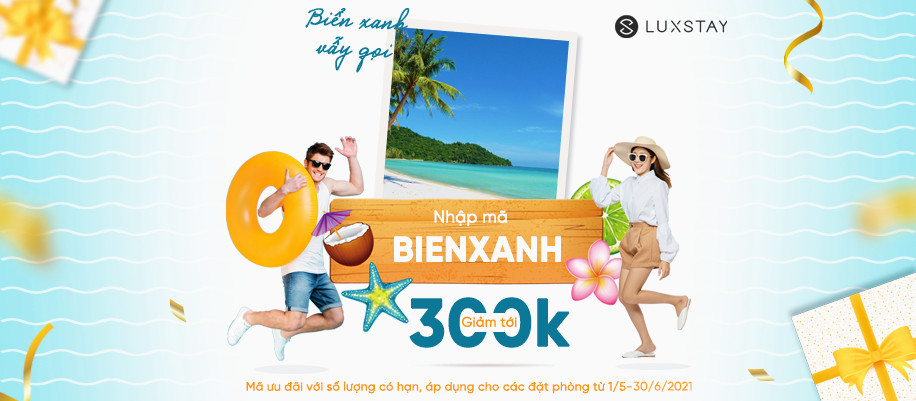
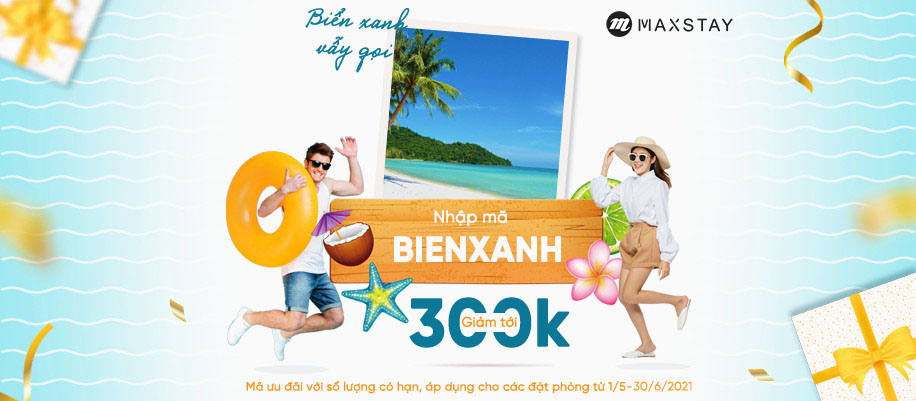
creat language option and code js for search-client extend

diff --git a/index.html b/index.html
@@ -23,9 +23,7 @@
                     <div class="header-wrap">
                         <div class="header__logo">
                             <a href="#" class="header__logo-link">
-                                <svg version="1.1" viewBox="0 0 50 50" class="svg-icon svg-fill" style="width: 50px; height: 50px;">
-                                    <path pid="0" d="M25.093 0c13.781.06 24.94 11.317 24.882 25.106C49.917 38.894 38.663 50.058 24.88 50 11.1 49.942-.059 38.683.001 24.894.057 11.106 11.31-.058 25.092 0zm11.801 31.9L14.398 16.053c.241-.26.48-.518.74-.777 2.7-2.687 5.971-4.031 9.775-4.015 3.804.015 7.064 1.388 9.741 4.098.238.241.476.482.694.743l-5.951 4.133 2.381 1.688 5.153-3.576v.02L39.33 16.7c-.692-1.203-1.584-2.325-2.616-3.39-3.231-3.292-7.167-4.947-11.788-4.967-4.6-.019-8.53 1.603-11.809 4.867a17.806 17.806 0 00-2.682 3.408l1.429 1.004 23.429 16.51c-.24.26-.48.518-.74.777-2.7 2.687-5.971 4.011-9.775 3.996-3.803-.016-7.063-1.37-9.74-4.08-.258-.26-.496-.521-.734-.782l6.111-4.251-.139-.181-2.183-1.528-5.373 3.735v-.021l-2.377 1.65a17.824 17.824 0 002.654 3.43c3.253 3.291 7.169 4.946 11.769 4.965 4.62.021 8.549-1.602 11.83-4.866 1.06-1.075 1.96-2.21 2.682-3.406l-2.383-1.67z"></path>
-                                </svg>
+                                <svg xmlns="http://www.w3.org/2000/svg" width="50px" height="50px" id="Layer_1" data-name="Layer 1" viewBox="0 0 57 57"><defs><style>.cls-1{fill:#222;}.cls-2{fill:#fff;}</style></defs><title>maxstay</title><circle class="cls-1" cx="28.94" cy="28.51" r="26.47"/><path class="cls-2" d="M48.82,37.57a14.78,14.78,0,0,1-3.22,2.8,17.41,17.41,0,0,1-10,2.73,5.72,5.72,0,0,1-2-.39,3.68,3.68,0,0,1-1.4-1,2.59,2.59,0,0,1-.6-1.43A3.11,3.11,0,0,1,32,38.54l8.18-15.79c.2-.41.2-.68,0-.83a1.1,1.1,0,0,0-.81-.19,2.88,2.88,0,0,0-1.09.35,1.67,1.67,0,0,0-.79.76l-8.18,15.7h-9L28.47,22.9c.26-.51.29-.84.1-1a1,1,0,0,0-.8-.18,3,3,0,0,0-1.06.36,1.44,1.44,0,0,0-.69.67L17.69,38.54H8.38l8.28-15.85a2.39,2.39,0,0,0,.39-1.26A.47.47,0,0,0,16.6,21a2.34,2.34,0,0,0-1,.28,7.51,7.51,0,0,0-1.36.86,12.22,12.22,0,0,0-1.43,1.31,10.37,10.37,0,0,0-1.25,1.63l-.73-.78a18.69,18.69,0,0,1,2.37-3.08,15.75,15.75,0,0,1,2.93-2.45,14,14,0,0,1,3.43-1.6,13,13,0,0,1,3.89-.57,4.31,4.31,0,0,1,3,.87,2.66,2.66,0,0,1,.67,2.6,11.46,11.46,0,0,1,2.05-1.6,13.77,13.77,0,0,1,2.17-1.09,12.27,12.27,0,0,1,2.12-.62,10,10,0,0,1,1.87-.19,5.5,5.5,0,0,1,1.68.24,3.34,3.34,0,0,1,1.23.69,2.46,2.46,0,0,1,.71,1.09A2.9,2.9,0,0,1,38.94,20a9.72,9.72,0,0,1,3.52-2.67,9.46,9.46,0,0,1,3.76-.8,3.33,3.33,0,0,1,2.11.63,3.22,3.22,0,0,1,1.14,1.65,5.33,5.33,0,0,1,.13,2.32,8.34,8.34,0,0,1-.87,2.67L41.63,37.3a1.29,1.29,0,0,0-.12,1.24,1.31,1.31,0,0,0,1.37.62,6,6,0,0,0,2.3-.64,10.24,10.24,0,0,0,2.41-1.61,7,7,0,0,0,1.77-2.33h1.39A12.35,12.35,0,0,1,48.82,37.57Z"/></svg>
                             </a>
                         </div>
                         <div class="header__search shadow">
@@ -39,7 +37,7 @@
                                     <span>Ngày</span>
                                 </a>
                             </div>
-                            <div class="header__search-client">
+                            <div class="header__search-client" id="header__hasextend">
                                 <a href="#" class="header__search-client-link">
                                     <i class="fas fa-user"></i>
                                     <span>Số khách</span>
@@ -51,9 +49,9 @@
                                         <div>Người lớn</div>
                                     </div>
                                     <div class="client-extend__updown">
-                                        <button class="client-extend__down">-</button>
-                                        <input type="text" placeholder="0">
-                                        <button class="client-extend__up">+</button>
+                                        <button class="client-extend__down" id="minusAdult">-</button>
+                                        <input type="text" id="inputAdult" value="0" min="0">
+                                        <button class="client-extend__up" id="plusAdult">+</button>
                                     </div>
                                 </div>
                                 <div class="client-extend__row">
@@ -62,9 +60,9 @@
                                         <div class="client-extend__content-note">Từ 2 đến 12</div>
                                     </div>
                                     <div class="client-extend__updown">
-                                        <button class="client-extend__down">-</button>
-                                        <input type="text" placeholder="0">
-                                        <button class="client-extend__up">+</button>
+                                        <button class="client-extend__down" id="minusChild">-</button>
+                                        <input type="text" id="inputChild" value="0" min="0">
+                                        <button class="client-extend__up" id="plusChild">+</button>
                                     </div>
                                 </div>
                                 <div class="client-extend__row">
@@ -73,9 +71,9 @@
                                         <div class="client-extend__content-note">Từ 2 đến 12</div>
                                     </div>
                                     <div class="client-extend__updown">
-                                        <button class="client-extend__down">-</button>
-                                        <input type="text" placeholder="0">
-                                        <button class="client-extend__up">+</button>
+                                        <button class="client-extend__down" id="minusInfant">-</button>
+                                        <input type="text" id="inputInfant" value="0" min="0">
+                                        <button class="client-extend__up" id="plusInfant">+</button>
                                     </div>
                                 </div>
                                 <div class="client-extend__option">
@@ -101,13 +99,42 @@
                             <li class="header__navbar-item">
                                 <a href="#" class="header__navbar-link">Đăng nhập</a>
                             </li>
-                            <li class="header__navbar-item">
+                            <li class="header__navbar-item" style="position: relative" id="language">
                                 <a href="#" class="header__navbar-link is-language">
                                     <img class="header__navbar-link-img" src="https://www.luxstay.com/icons/vi.svg" alt="hình ảnh">
                                     <span>VNĐ</span>
                                 </a>
                             </li>
+                            <div class="header__navbar-language shadow">
+                                <div class="language">
+                                    <div class="vietnamese">
+                                        <img src="https://www.luxstay.com/icons/vi.svg" alt="hỉnh ảnh">
+                                        <span>Việt Nam</span>
+                                        <i class="fas fa-check"></i>
+                                    </div>
+                                    <div class="english">
+                                        <img src="https://www.luxstay.com/icons/en.svg" alt="hỉnh ảnh">
+                                        <span>English</span>
+                                    </div>
+                                    <div class="korean">
+                                        <img src="https://www.luxstay.com/icons/ko.svg" alt="hỉnh ảnh">
+                                        <span>Korean</span>
+                                    </div>
+                                </div>
+                                <div class="currency">
+                                    <div class="vnd">
+                                        <span class="vnd-currency">VNĐ</span>
+                                        <span>Việt Nam Đồng</span>
+                                        <i class="fas fa-check"></i>
+                                    </div>
+                                    <div class="usd">
+                                        <span class="usd-currency">USD</span>
+                                        <span>United States Dollar</span>
+                                    </div>
+                                </div>
+                            </div>
                         </ul>
+                        
                     </div>
                 </div>
             </div>
@@ -117,13 +144,13 @@
             <div class="grid">
                 <div class="slider__container">
                     <a href="#" class="slide__img">
-                        <img src="./access/img/sale.png" alt="hình ảnh">
+                        <img src="./access/img/sale.jpg" alt="hình ảnh">
                     </a>
                     <a href="#" class="slide__img">
-                        <img src="./access/img/8.3.png" alt="hình ảnh">
+                        <img src="./access/img/8.3.jpg" alt="hình ảnh">
                     </a>
                     <a href="#" class="slide__img">
-                        <img src="./access/img/book-easy.png" alt="hình ảnh">
+                        <img src="./access/img/book-easy.jpg" alt="hình ảnh">
                     </a>
                     <div class="slide__sticky">
                         <div class="slide__sticky-dot" onclick = "currentSlide(0)"></div>
@@ -285,14 +312,7 @@
                         <div>
                             <a href="#" class="discount__item">
                                 <div class="discount__item-img">
-                                    <img src="./access/img/discount-1.jpg" alt="hình ảnh">
-                                </div>
-                            </a>
-                        </div>
-                        <div>
-                            <a href="#" class="discount__item">
-                                <div class="discount__item-img">
-                                    <img src="./access/img/discount.jpg" alt="hình ảnh">
+                                    <img src="./access/img/discoun1t.jpg" alt="hình ảnh">
                                 </div>
                             </a>
                         </div>
@@ -300,6 +320,13 @@
                             <a href="#" class="discount__item">
                                 <div class="discount__item-img">
                                     <img src="./access/img/discount-2.jpg" alt="hình ảnh">
+                                </div>
+                            </a>
+                        </div>
+                        <div>
+                            <a href="#" class="discount__item">
+                                <div class="discount__item-img">
+                                    <img src="./access/img/discount-3.jpg" alt="hình ảnh">
                                 </div>
                             </a>
                         </div>
@@ -559,10 +586,7 @@
                 <div class="intro">
                     <div class="grid__row mt-56">
                         <div class="grid__column-haft">
-                            <svg version="1.1" viewBox="0 0 244 50" class="intro__svg">
-                                <path pid="0" d="M25.093 0c13.781.06 24.94 11.317 24.882 25.106C49.917 38.894 38.663 50.058 24.88 50 11.1 49.942-.059 38.683.001 24.894.057 11.106 11.31-.058 25.092 0zm11.801 31.9L14.398 16.053c.241-.26.48-.518.74-.777 2.7-2.687 5.971-4.031 9.775-4.015 3.804.015 7.064 1.388 9.741 4.098.238.241.476.482.694.743l-5.951 4.133 2.381 1.688 5.153-3.576v.02L39.33 16.7c-.692-1.203-1.584-2.325-2.616-3.39-3.231-3.292-7.167-4.947-11.788-4.967-4.6-.019-8.53 1.603-11.809 4.867a17.806 17.806 0 00-2.682 3.408l1.429 1.004 23.429 16.51c-.24.26-.48.518-.74.777-2.7 2.687-5.971 4.011-9.775 3.996-3.803-.016-7.063-1.37-9.74-4.08-.258-.26-.496-.521-.734-.782l6.111-4.251-.139-.181-2.183-1.528-5.373 3.735v-.021l-2.377 1.65a17.824 17.824 0 002.654 3.43c3.253 3.291 7.169 4.946 11.769 4.965 4.62.021 8.549-1.602 11.83-4.866 1.06-1.075 1.96-2.21 2.682-3.406l-2.383-1.67zm45.839 2.652l-12.45-.05.096-21.789a.957.957 0 00-.965-.945l-.678-.003a.96.96 0 00-.974.939v.047c-.048.095-.05.236-.05.33l-.098 22.636a1.337 1.337 0 001.351 1.326l13.805.056a.958.958 0 00.973-.938l.003-.662a1.037 1.037 0 00-1.013-.946v-.001zm27.64-22.67l-.871-.003c-.563-.003-1.027.42-1.027.937l-.075 15.878c-.014 3.157-3.252 5.735-7.197 5.72-3.943-.014-7.158-2.618-7.144-5.775l.123-15.5.052-.282a.957.957 0 00-.201-.756 1.128 1.128 0 00-.767-.332l-.87-.004c-.513-.002-.924.326-1.028.75a.857.857 0 00-.156.47l-.073 15.69c-.02 4.616 4.47 8.402 9.95 8.424 5.48.022 10.004-3.73 10.025-8.3l.122-15.5.054-.282a.952.952 0 00-.203-.755c-.152-.189-.458-.379-.714-.38zm48.638 11.226c-3.275-1.249-6.696-2.496-6.688-4.393.01-2.42 2.721-4.401 6.05-4.387 3.331.014 6.025 2.017 6.014 4.436l-.002.38a.96.96 0 00.961.953l.675.003a.96.96 0 00.971-.945v-.38c.009-1.66-.709-3.276-2.006-4.515-1.635-1.618-4.092-2.532-6.65-2.494-4.873-.02-8.698 3.047-8.715 6.938.03 3.748 4.416 5.38 8.656 6.962 3.324 1.247 6.795 2.495 6.785 4.487-.01 2.372-3.155 4.399-6.775 4.385-3.668-.016-6.747-2.07-6.737-4.44l.001-.38a.961.961 0 00-.96-.954l-.676-.002a.96.96 0 00-.97.945v.38c-.018 3.843 4.215 6.991 9.38 7.012 5.163.022 9.423-3.092 9.44-6.934-.033-3.796-4.464-5.427-8.754-7.057zM193.66 11.84l-18.844-.076c-.547-.003-.996.42-.999.94l-.002.66c-.002.52.443.946.99.949l8.103.032-.095 21.802c-.003.52.443.947.99.949l.696.002c.546.003.996-.42 1-.94l.095-21.802 8.055.031c.547.003.996-.42.999-.94l.003-.66c.003-.52-.443-.946-.99-.947zm49.264.515c-.144-.33-.481-.52-.867-.52l-.87-.005a.963.963 0 00-.677.28l-.145.14-.147.142-6.609 9.677-6.72-9.734c-.048-.046-.096-.094-.096-.14l-.143-.143a.97.97 0 00-.675-.285l-.774-.003a1.021 1.021 0 00-.872.515 1.03 1.03 0 00.045.988l7.966 11.576-.049 11.307c.006.527.437.95.964.946l.675.002a.957.957 0 00.97-.937l.049-11.308 7.923-11.509c.194-.329.243-.705.052-.989zm-37.898 12.047l3.75-7.994 3.728 8.023-7.478-.03zm15.615 10.954v-.047l-10.5-22.733c-.15-.425-.549-.71-1.102-.807-.603-.049-1.156.231-1.41.703v.046l-10.705 22.697v.047l-.204.471c-.095.283-.06.595.097.849.188.258.483.416.802.428l.854.004c.453.001.806-.282.958-.657l.05-.141 4.314-9.277 9.95.04 4.28 9.31.049.14c.15.38.5.664.952.667l.854.002c.352.002.654-.139.806-.422.152-.281.254-.563.104-.847l-.149-.473zm-86.008-15.15l.817.003a.963.963 0 00.729-.347l4.755-6.218.412-.478a.763.763 0 00.095-.915c-.135-.306-.453-.482-.816-.483l-.863-.004a.929.929 0 00-.868.608l-4.983 6.522a.94.94 0 00-.096.915c.135.22.453.394.816.397h.002zm-6.998 8.45l-.819-.002a.96.96 0 00-.728.347l-4.755 6.207-.413.48a.77.77 0 00-.094.92c.135.309.452.485.816.488l.864.002a.91.91 0 00.82-.478l5.03-6.601a.949.949 0 00.095-.92 1.027 1.027 0 00-.816-.443zm8.019-.453l.148.14 5.55 7.248c.248.284.246.662.095.99-.15.332-.5.519-.9.517l-.896-.004a1.013 1.013 0 01-.697-.286l-.149-.14c-.03-.002-.042-.02-.059-.044a.212.212 0 00-.04-.052l-5.501-7.151a1.005 1.005 0 01-.15-.237l-11.694-15.39-.446-.521c-.248-.285-.246-.662-.096-.993.15-.33.501-.518.9-.516l.897.004a.99.99 0 01.845.428l.15.19 11.992 15.721s.05.048.05.096z">
-                                </path>
-                            </svg>
+                            <svg xmlns="http://www.w3.org/2000/svg" style="transform: translateX(-10px)" width="414.8px" height="85px"  id="Layer_1" data-name="Layer 1" viewBox="0 0 280 60"><defs><style>.cls-1{fill:#222;}.cls-2{fill:#fff;}</style></defs><title>maxstay</title><circle class="cls-1" cx="28.94" cy="28.51" r="26.47"/><path class="cls-1" d="M103,41.16l8.43-21.95a2.58,2.58,0,0,1,2.4-1.65H114a2.64,2.64,0,0,1,2.44,1.64l9,21.93a1.59,1.59,0,0,1-1.48,2.2h-.4a1.58,1.58,0,0,1-1.49-1l-2.22-5.76a1.61,1.61,0,0,0-1.49-1h-8.56a1.6,1.6,0,0,0-1.5,1l-2.07,5.7a1.6,1.6,0,0,1-1.5,1h-.17A1.6,1.6,0,0,1,103,41.16Zm6.6-8.41h8.74l-2.69-7.14c-.7-1.85-1.25-3.43-1.64-4.72l-1.58,4.3Z"/><path class="cls-1" d="M164.33,34.91h.19a1.58,1.58,0,0,1,1.66,1.2A6.25,6.25,0,0,0,167,38a5.9,5.9,0,0,0,2.6,2,9.8,9.8,0,0,0,3.95.76,9.45,9.45,0,0,0,3.45-.58,4.68,4.68,0,0,0,2.22-1.59,3.66,3.66,0,0,0,.73-2.2,3.34,3.34,0,0,0-.7-2.12,5.29,5.29,0,0,0-2.32-1.52,45.14,45.14,0,0,0-4.59-1.26,22.86,22.86,0,0,1-5-1.61,6.91,6.91,0,0,1-2.76-2.4,5.88,5.88,0,0,1-.9-3.2,6.52,6.52,0,0,1,1.11-3.65A6.83,6.83,0,0,1,168,18a12.38,12.38,0,0,1,4.73-.88,12.82,12.82,0,0,1,5,.93,7.31,7.31,0,0,1,3.37,2.71,7.63,7.63,0,0,1,1,2.22,1.57,1.57,0,0,1-1.41,2h-.2a1.6,1.6,0,0,1-1.64-1.19,4.71,4.71,0,0,0-1.53-2.39,7,7,0,0,0-4.49-1.25,7.25,7.25,0,0,0-4.51,1.13A3.42,3.42,0,0,0,167,24a2.92,2.92,0,0,0,1,2.28c.65.6,2.37,1.21,5.14,1.84a34.2,34.2,0,0,1,5.7,1.64,7.87,7.87,0,0,1,3.33,2.63,6.44,6.44,0,0,1,1.07,3.67,7,7,0,0,1-1.18,3.87,7.77,7.77,0,0,1-3.38,2.83,11.71,11.71,0,0,1-5,1,14.8,14.8,0,0,1-5.86-1,8.23,8.23,0,0,1-3.71-3.06,8.36,8.36,0,0,1-1.19-2.82A1.59,1.59,0,0,1,164.33,34.91Z"/><path class="cls-1" d="M199.88,41.81V20.6h-7a1.52,1.52,0,0,1-1.52-1.52h0a1.52,1.52,0,0,1,1.52-1.52h17.38a1.52,1.52,0,0,1,1.52,1.52h0a1.52,1.52,0,0,1-1.52,1.52h-7V41.81a1.52,1.52,0,0,1-1.52,1.52h-.37A1.52,1.52,0,0,1,199.88,41.81Z"/><path class="cls-1" d="M216.08,41.16l8.67-22.57a1.6,1.6,0,0,1,1.49-1h1.5a1.6,1.6,0,0,1,1.48,1l9.24,22.57a1.59,1.59,0,0,1-1.48,2.2h-.4a1.6,1.6,0,0,1-1.5-1l-2.21-5.76a1.61,1.61,0,0,0-1.5-1h-8.55a1.61,1.61,0,0,0-1.51,1l-2.06,5.7a1.6,1.6,0,0,1-1.5,1h-.18A1.6,1.6,0,0,1,216.08,41.16Zm6.6-8.41h8.74l-2.69-7.14c-.82-2.16-1.43-3.95-1.83-5.34a32.89,32.89,0,0,1-1.39,4.92Z"/><path class="cls-1" d="M252.11,41.71v-8.8a1.59,1.59,0,0,0-.27-.9l-8-11.92a1.63,1.63,0,0,1,1.35-2.53h.23a1.62,1.62,0,0,1,1.36.74l4.6,7c.43.67.85,1.34,1.25,2a1.62,1.62,0,0,0,2.77,0q.65-1,1.41-2.22l4.51-6.85a1.64,1.64,0,0,1,1.36-.73h0A1.62,1.62,0,0,1,264,20.11L255.81,32a1.59,1.59,0,0,0-.29.92v8.79a1.61,1.61,0,0,1-1.62,1.62h-.16A1.62,1.62,0,0,1,252.11,41.71Z"/><path class="cls-1" d="M133.85,40.59a1.71,1.71,0,0,0,1.38,2.74h0a1.33,1.33,0,0,0,1.07-.54l5.93-8.41a.4.4,0,0,0-.33-.64h-2.77a.43.43,0,0,0-.33.17Z"/><path class="cls-1" d="M152.9,20a1.53,1.53,0,0,0-1.23-2.45h0a1.33,1.33,0,0,0-1,.53l-4.41,5.83a.58.58,0,0,0,.46.93h2.52a.2.2,0,0,0,.17-.09Z"/><path class="cls-1" d="M153.37,40.46l-4.8-6.72-2.89-4s-2.76-3.82-3.48-4.86l-.48-.68-4.28-6.05a1.33,1.33,0,0,0-1.08-.56h0A1.74,1.74,0,0,0,135,20.32l3.23,4.53,3.59,5S144,33,144.52,33.74c2,2.82,6.3,9,6.3,9a1.33,1.33,0,0,0,1.08.56h0A1.81,1.81,0,0,0,153.37,40.46Z"/><path class="cls-2" d="M48.82,37.57a14.78,14.78,0,0,1-3.22,2.8,17.41,17.41,0,0,1-10,2.73,5.72,5.72,0,0,1-2-.39,3.68,3.68,0,0,1-1.4-1,2.59,2.59,0,0,1-.6-1.43A3.11,3.11,0,0,1,32,38.54l8.18-15.79c.2-.41.2-.68,0-.83a1.1,1.1,0,0,0-.81-.19,2.88,2.88,0,0,0-1.09.35,1.67,1.67,0,0,0-.79.76l-8.18,15.7h-9L28.47,22.9c.26-.51.29-.84.1-1a1,1,0,0,0-.8-.18,3,3,0,0,0-1.06.36,1.44,1.44,0,0,0-.69.67L17.69,38.54H8.38l8.28-15.85a2.39,2.39,0,0,0,.39-1.26A.47.47,0,0,0,16.6,21a2.34,2.34,0,0,0-1,.28,7.51,7.51,0,0,0-1.36.86,12.22,12.22,0,0,0-1.43,1.31,10.37,10.37,0,0,0-1.25,1.63l-.73-.78a18.69,18.69,0,0,1,2.37-3.08,15.75,15.75,0,0,1,2.93-2.45,14,14,0,0,1,3.43-1.6,13,13,0,0,1,3.89-.57,4.31,4.31,0,0,1,3,.87,2.66,2.66,0,0,1,.67,2.6,11.46,11.46,0,0,1,2.05-1.6,13.77,13.77,0,0,1,2.17-1.09,12.27,12.27,0,0,1,2.12-.62,10,10,0,0,1,1.87-.19,5.5,5.5,0,0,1,1.68.24,3.34,3.34,0,0,1,1.23.69,2.46,2.46,0,0,1,.71,1.09A2.9,2.9,0,0,1,38.94,20a9.72,9.72,0,0,1,3.52-2.67,9.46,9.46,0,0,1,3.76-.8,3.33,3.33,0,0,1,2.11.63,3.22,3.22,0,0,1,1.14,1.65,5.33,5.33,0,0,1,.13,2.32,8.34,8.34,0,0,1-.87,2.67L41.63,37.3a1.29,1.29,0,0,0-.12,1.24,1.31,1.31,0,0,0,1.37.62,6,6,0,0,0,2.3-.64,10.24,10.24,0,0,0,2.41-1.61,7,7,0,0,0,1.77-2.33h1.39A12.35,12.35,0,0,1,48.82,37.57Z"/><path class="cls-1" d="M92.4,17.56h0a1.65,1.65,0,0,0-1.65,1.65V41.69a1.64,1.64,0,0,0,1.65,1.64h0A1.64,1.64,0,0,0,94,41.69V19.21A1.65,1.65,0,0,0,92.4,17.56Z"/><path class="cls-1" d="M71.09,17.56h0a1.64,1.64,0,0,0-1.64,1.65V41.69a1.63,1.63,0,0,0,1.64,1.64h0a1.64,1.64,0,0,0,1.65-1.64V19.21A1.65,1.65,0,0,0,71.09,17.56Z"/><path class="cls-1" d="M88,18.54A.56.56,0,0,0,87,18.36L83.28,29c-.62,1.81-1.08,3.19-1.37,4.13-.26-.85-.67-2.12-1.23-3.82L77.1,18.63a.86.86,0,0,0-1.67.27v3.8a.86.86,0,0,0,0,.28L79.69,35.4a2.16,2.16,0,0,0,2,1.47h0a2.17,2.17,0,0,0,2-1.45L88,23.27A.66.66,0,0,0,88,23Z"/></svg>
                             <h2 class="intro__slogan">TÌM KIẾM CHỖ Ở GIÁ TỐT NHẤT</h2>
                             <p class="intro__content">Maxstay hiện là nền tảng đặt phòng trực tuyến #1 Việt Nam. Đồng hành cùng chúng tôi, bạn có những chuyến đi mang đầy trải nghiệm. Với Maxstay, việc đặt chỗ ở, biệt thự nghỉ dưỡng, khách sạn, nhà riêng, chung cư... trở nên nhanh chóng, thuận tiện và dễ dàng.</p>
                             <div class="grid__row mt-56">
@@ -603,10 +627,7 @@
                 <div class="grid__row">
                     <div class="grid__column-2-10">
                         <div class="footer-item">
-                            <svg version="1.1" viewBox="0 0 244 50" class="footer-item__svg" style="width: 170px; height: 35px;">
-                                <path pid="0" d="M25.093 0c13.781.06 24.94 11.317 24.882 25.106C49.917 38.894 38.663 50.058 24.88 50 11.1 49.942-.059 38.683.001 24.894.057 11.106 11.31-.058 25.092 0zm11.801 31.9L14.398 16.053c.241-.26.48-.518.74-.777 2.7-2.687 5.971-4.031 9.775-4.015 3.804.015 7.064 1.388 9.741 4.098.238.241.476.482.694.743l-5.951 4.133 2.381 1.688 5.153-3.576v.02L39.33 16.7c-.692-1.203-1.584-2.325-2.616-3.39-3.231-3.292-7.167-4.947-11.788-4.967-4.6-.019-8.53 1.603-11.809 4.867a17.806 17.806 0 00-2.682 3.408l1.429 1.004 23.429 16.51c-.24.26-.48.518-.74.777-2.7 2.687-5.971 4.011-9.775 3.996-3.803-.016-7.063-1.37-9.74-4.08-.258-.26-.496-.521-.734-.782l6.111-4.251-.139-.181-2.183-1.528-5.373 3.735v-.021l-2.377 1.65a17.824 17.824 0 002.654 3.43c3.253 3.291 7.169 4.946 11.769 4.965 4.62.021 8.549-1.602 11.83-4.866 1.06-1.075 1.96-2.21 2.682-3.406l-2.383-1.67zm45.839 2.652l-12.45-.05.096-21.789a.957.957 0 00-.965-.945l-.678-.003a.96.96 0 00-.974.939v.047c-.048.095-.05.236-.05.33l-.098 22.636a1.337 1.337 0 001.351 1.326l13.805.056a.958.958 0 00.973-.938l.003-.662a1.037 1.037 0 00-1.013-.946v-.001zm27.64-22.67l-.871-.003c-.563-.003-1.027.42-1.027.937l-.075 15.878c-.014 3.157-3.252 5.735-7.197 5.72-3.943-.014-7.158-2.618-7.144-5.775l.123-15.5.052-.282a.957.957 0 00-.201-.756 1.128 1.128 0 00-.767-.332l-.87-.004c-.513-.002-.924.326-1.028.75a.857.857 0 00-.156.47l-.073 15.69c-.02 4.616 4.47 8.402 9.95 8.424 5.48.022 10.004-3.73 10.025-8.3l.122-15.5.054-.282a.952.952 0 00-.203-.755c-.152-.189-.458-.379-.714-.38zm48.638 11.226c-3.275-1.249-6.696-2.496-6.688-4.393.01-2.42 2.721-4.401 6.05-4.387 3.331.014 6.025 2.017 6.014 4.436l-.002.38a.96.96 0 00.961.953l.675.003a.96.96 0 00.971-.945v-.38c.009-1.66-.709-3.276-2.006-4.515-1.635-1.618-4.092-2.532-6.65-2.494-4.873-.02-8.698 3.047-8.715 6.938.03 3.748 4.416 5.38 8.656 6.962 3.324 1.247 6.795 2.495 6.785 4.487-.01 2.372-3.155 4.399-6.775 4.385-3.668-.016-6.747-2.07-6.737-4.44l.001-.38a.961.961 0 00-.96-.954l-.676-.002a.96.96 0 00-.97.945v.38c-.018 3.843 4.215 6.991 9.38 7.012 5.163.022 9.423-3.092 9.44-6.934-.033-3.796-4.464-5.427-8.754-7.057zM193.66 11.84l-18.844-.076c-.547-.003-.996.42-.999.94l-.002.66c-.002.52.443.946.99.949l8.103.032-.095 21.802c-.003.52.443.947.99.949l.696.002c.546.003.996-.42 1-.94l.095-21.802 8.055.031c.547.003.996-.42.999-.94l.003-.66c.003-.52-.443-.946-.99-.947zm49.264.515c-.144-.33-.481-.52-.867-.52l-.87-.005a.963.963 0 00-.677.28l-.145.14-.147.142-6.609 9.677-6.72-9.734c-.048-.046-.096-.094-.096-.14l-.143-.143a.97.97 0 00-.675-.285l-.774-.003a1.021 1.021 0 00-.872.515 1.03 1.03 0 00.045.988l7.966 11.576-.049 11.307c.006.527.437.95.964.946l.675.002a.957.957 0 00.97-.937l.049-11.308 7.923-11.509c.194-.329.243-.705.052-.989zm-37.898 12.047l3.75-7.994 3.728 8.023-7.478-.03zm15.615 10.954v-.047l-10.5-22.733c-.15-.425-.549-.71-1.102-.807-.603-.049-1.156.231-1.41.703v.046l-10.705 22.697v.047l-.204.471c-.095.283-.06.595.097.849.188.258.483.416.802.428l.854.004c.453.001.806-.282.958-.657l.05-.141 4.314-9.277 9.95.04 4.28 9.31.049.14c.15.38.5.664.952.667l.854.002c.352.002.654-.139.806-.422.152-.281.254-.563.104-.847l-.149-.473zm-86.008-15.15l.817.003a.963.963 0 00.729-.347l4.755-6.218.412-.478a.763.763 0 00.095-.915c-.135-.306-.453-.482-.816-.483l-.863-.004a.929.929 0 00-.868.608l-4.983 6.522a.94.94 0 00-.096.915c.135.22.453.394.816.397h.002zm-6.998 8.45l-.819-.002a.96.96 0 00-.728.347l-4.755 6.207-.413.48a.77.77 0 00-.094.92c.135.309.452.485.816.488l.864.002a.91.91 0 00.82-.478l5.03-6.601a.949.949 0 00.095-.92 1.027 1.027 0 00-.816-.443zm8.019-.453l.148.14 5.55 7.248c.248.284.246.662.095.99-.15.332-.5.519-.9.517l-.896-.004a1.013 1.013 0 01-.697-.286l-.149-.14c-.03-.002-.042-.02-.059-.044a.212.212 0 00-.04-.052l-5.501-7.151a1.005 1.005 0 01-.15-.237l-11.694-15.39-.446-.521c-.248-.285-.246-.662-.096-.993.15-.33.501-.518.9-.516l.897.004a.99.99 0 01.845.428l.15.19 11.992 15.721s.05.048.05.096z">
-                                </path>
-                            </svg>
+                            <svg xmlns="http://www.w3.org/2000/svg" width="170px" height="35px" id="Layer_1" data-name="Layer 1" viewBox="0 0 267.57 58.72"><defs><style>.cls-1{fill:#222;}.cls-2{fill:#fff;}</style></defs><title>maxstay</title><circle class="cls-1" cx="28.94" cy="28.51" r="26.47"/><path class="cls-1" d="M103,41.16l8.43-21.95a2.58,2.58,0,0,1,2.4-1.65H114a2.64,2.64,0,0,1,2.44,1.64l9,21.93a1.59,1.59,0,0,1-1.48,2.2h-.4a1.58,1.58,0,0,1-1.49-1l-2.22-5.76a1.61,1.61,0,0,0-1.49-1h-8.56a1.6,1.6,0,0,0-1.5,1l-2.07,5.7a1.6,1.6,0,0,1-1.5,1h-.17A1.6,1.6,0,0,1,103,41.16Zm6.6-8.41h8.74l-2.69-7.14c-.7-1.85-1.25-3.43-1.64-4.72l-1.58,4.3Z"/><path class="cls-1" d="M164.33,34.91h.19a1.58,1.58,0,0,1,1.66,1.2A6.25,6.25,0,0,0,167,38a5.9,5.9,0,0,0,2.6,2,9.8,9.8,0,0,0,3.95.76,9.45,9.45,0,0,0,3.45-.58,4.68,4.68,0,0,0,2.22-1.59,3.66,3.66,0,0,0,.73-2.2,3.34,3.34,0,0,0-.7-2.12,5.29,5.29,0,0,0-2.32-1.52,45.14,45.14,0,0,0-4.59-1.26,22.86,22.86,0,0,1-5-1.61,6.91,6.91,0,0,1-2.76-2.4,5.88,5.88,0,0,1-.9-3.2,6.52,6.52,0,0,1,1.11-3.65A6.83,6.83,0,0,1,168,18a12.38,12.38,0,0,1,4.73-.88,12.82,12.82,0,0,1,5,.93,7.31,7.31,0,0,1,3.37,2.71,7.63,7.63,0,0,1,1,2.22,1.57,1.57,0,0,1-1.41,2h-.2a1.6,1.6,0,0,1-1.64-1.19,4.71,4.71,0,0,0-1.53-2.39,7,7,0,0,0-4.49-1.25,7.25,7.25,0,0,0-4.51,1.13A3.42,3.42,0,0,0,167,24a2.92,2.92,0,0,0,1,2.28c.65.6,2.37,1.21,5.14,1.84a34.2,34.2,0,0,1,5.7,1.64,7.87,7.87,0,0,1,3.33,2.63,6.44,6.44,0,0,1,1.07,3.67,7,7,0,0,1-1.18,3.87,7.77,7.77,0,0,1-3.38,2.83,11.71,11.71,0,0,1-5,1,14.8,14.8,0,0,1-5.86-1,8.23,8.23,0,0,1-3.71-3.06,8.36,8.36,0,0,1-1.19-2.82A1.59,1.59,0,0,1,164.33,34.91Z"/><path class="cls-1" d="M199.88,41.81V20.6h-7a1.52,1.52,0,0,1-1.52-1.52h0a1.52,1.52,0,0,1,1.52-1.52h17.38a1.52,1.52,0,0,1,1.52,1.52h0a1.52,1.52,0,0,1-1.52,1.52h-7V41.81a1.52,1.52,0,0,1-1.52,1.52h-.37A1.52,1.52,0,0,1,199.88,41.81Z"/><path class="cls-1" d="M216.08,41.16l8.67-22.57a1.6,1.6,0,0,1,1.49-1h1.5a1.6,1.6,0,0,1,1.48,1l9.24,22.57a1.59,1.59,0,0,1-1.48,2.2h-.4a1.6,1.6,0,0,1-1.5-1l-2.21-5.76a1.61,1.61,0,0,0-1.5-1h-8.55a1.61,1.61,0,0,0-1.51,1l-2.06,5.7a1.6,1.6,0,0,1-1.5,1h-.18A1.6,1.6,0,0,1,216.08,41.16Zm6.6-8.41h8.74l-2.69-7.14c-.82-2.16-1.43-3.95-1.83-5.34a32.89,32.89,0,0,1-1.39,4.92Z"/><path class="cls-1" d="M252.11,41.71v-8.8a1.59,1.59,0,0,0-.27-.9l-8-11.92a1.63,1.63,0,0,1,1.35-2.53h.23a1.62,1.62,0,0,1,1.36.74l4.6,7c.43.67.85,1.34,1.25,2a1.62,1.62,0,0,0,2.77,0q.65-1,1.41-2.22l4.51-6.85a1.64,1.64,0,0,1,1.36-.73h0A1.62,1.62,0,0,1,264,20.11L255.81,32a1.59,1.59,0,0,0-.29.92v8.79a1.61,1.61,0,0,1-1.62,1.62h-.16A1.62,1.62,0,0,1,252.11,41.71Z"/><path class="cls-1" d="M133.85,40.59a1.71,1.71,0,0,0,1.38,2.74h0a1.33,1.33,0,0,0,1.07-.54l5.93-8.41a.4.4,0,0,0-.33-.64h-2.77a.43.43,0,0,0-.33.17Z"/><path class="cls-1" d="M152.9,20a1.53,1.53,0,0,0-1.23-2.45h0a1.33,1.33,0,0,0-1,.53l-4.41,5.83a.58.58,0,0,0,.46.93h2.52a.2.2,0,0,0,.17-.09Z"/><path class="cls-1" d="M153.37,40.46l-4.8-6.72-2.89-4s-2.76-3.82-3.48-4.86l-.48-.68-4.28-6.05a1.33,1.33,0,0,0-1.08-.56h0A1.74,1.74,0,0,0,135,20.32l3.23,4.53,3.59,5S144,33,144.52,33.74c2,2.82,6.3,9,6.3,9a1.33,1.33,0,0,0,1.08.56h0A1.81,1.81,0,0,0,153.37,40.46Z"/><path class="cls-2" d="M48.82,37.57a14.78,14.78,0,0,1-3.22,2.8,17.41,17.41,0,0,1-10,2.73,5.72,5.72,0,0,1-2-.39,3.68,3.68,0,0,1-1.4-1,2.59,2.59,0,0,1-.6-1.43A3.11,3.11,0,0,1,32,38.54l8.18-15.79c.2-.41.2-.68,0-.83a1.1,1.1,0,0,0-.81-.19,2.88,2.88,0,0,0-1.09.35,1.67,1.67,0,0,0-.79.76l-8.18,15.7h-9L28.47,22.9c.26-.51.29-.84.1-1a1,1,0,0,0-.8-.18,3,3,0,0,0-1.06.36,1.44,1.44,0,0,0-.69.67L17.69,38.54H8.38l8.28-15.85a2.39,2.39,0,0,0,.39-1.26A.47.47,0,0,0,16.6,21a2.34,2.34,0,0,0-1,.28,7.51,7.51,0,0,0-1.36.86,12.22,12.22,0,0,0-1.43,1.31,10.37,10.37,0,0,0-1.25,1.63l-.73-.78a18.69,18.69,0,0,1,2.37-3.08,15.75,15.75,0,0,1,2.93-2.45,14,14,0,0,1,3.43-1.6,13,13,0,0,1,3.89-.57,4.31,4.31,0,0,1,3,.87,2.66,2.66,0,0,1,.67,2.6,11.46,11.46,0,0,1,2.05-1.6,13.77,13.77,0,0,1,2.17-1.09,12.27,12.27,0,0,1,2.12-.62,10,10,0,0,1,1.87-.19,5.5,5.5,0,0,1,1.68.24,3.34,3.34,0,0,1,1.23.69,2.46,2.46,0,0,1,.71,1.09A2.9,2.9,0,0,1,38.94,20a9.72,9.72,0,0,1,3.52-2.67,9.46,9.46,0,0,1,3.76-.8,3.33,3.33,0,0,1,2.11.63,3.22,3.22,0,0,1,1.14,1.65,5.33,5.33,0,0,1,.13,2.32,8.34,8.34,0,0,1-.87,2.67L41.63,37.3a1.29,1.29,0,0,0-.12,1.24,1.31,1.31,0,0,0,1.37.62,6,6,0,0,0,2.3-.64,10.24,10.24,0,0,0,2.41-1.61,7,7,0,0,0,1.77-2.33h1.39A12.35,12.35,0,0,1,48.82,37.57Z"/><path class="cls-1" d="M92.4,17.56h0a1.65,1.65,0,0,0-1.65,1.65V41.69a1.64,1.64,0,0,0,1.65,1.64h0A1.64,1.64,0,0,0,94,41.69V19.21A1.65,1.65,0,0,0,92.4,17.56Z"/><path class="cls-1" d="M71.09,17.56h0a1.64,1.64,0,0,0-1.64,1.65V41.69a1.63,1.63,0,0,0,1.64,1.64h0a1.64,1.64,0,0,0,1.65-1.64V19.21A1.65,1.65,0,0,0,71.09,17.56Z"/><path class="cls-1" d="M88,18.54A.56.56,0,0,0,87,18.36L83.28,29c-.62,1.81-1.08,3.19-1.37,4.13-.26-.85-.67-2.12-1.23-3.82L77.1,18.63a.86.86,0,0,0-1.67.27v3.8a.86.86,0,0,0,0,.28L79.69,35.4a2.16,2.16,0,0,0,2,1.47h0a2.17,2.17,0,0,0,2-1.45L88,23.27A.66.66,0,0,0,88,23Z"/></svg>
                             <div class="footer-text">
                                 <svg version="1.1" viewBox="0 0 40 40" class="footer-text__svg" style="width: 40px; height: 40px;"><defs><linearGradient x1="50%" y1="0%" x2="50%" y2="100%" id="svgicon_whatsapp_b"><stop stop-color="#4B4B4B" offset="0%"></stop><stop offset="100%"></stop></linearGradient><linearGradient x1="0%" y1="25.77%" x2="100%" y2="74.23%" id="svgicon_whatsapp_e"><stop stop-color="#C77D0E" offset="0%"></stop><stop stop-color="#F98713" offset="100%"></stop></linearGradient><linearGradient x1="0%" y1="24.995%" x2="100%" y2="75.005%" id="svgicon_whatsapp_f"><stop stop-color="#F98713" offset="0%"></stop><stop stop-color="#FBAC36" offset="100%"></stop></linearGradient><path pid="0" d="M9.083 17.431L3.52 20.16H1.76l1.4-5.483C1.182 13.132 0 11.172 0 9.04 0 4.047 6.483 0 14.48 0c7.997 0 14.48 4.047 14.48 9.04 0 4.993-6.483 9.04-14.48 9.04-1.908 0-3.73-.23-5.397-.649z" id="svgicon_whatsapp_a"></path><path pid="1" d="M9.083 17.431L3.52 20.16H1.76l1.4-5.483C1.182 13.132 0 11.172 0 9.04 0 4.047 6.483 0 14.48 0c7.997 0 14.48 4.047 14.48 9.04 0 4.993-6.483 9.04-14.48 9.04-1.908 0-3.73-.23-5.397-.649z" id="svgicon_whatsapp_d"></path></defs><g fill="none" fill-rule="evenodd"><circle pid="2" fill-opacity=".03" fill="#000" cx="20" cy="20" r="20"></circle><ellipse pid="3" fill="#E4E4E4" cx="20" cy="36.64" rx="20" ry="1.28"></ellipse><g transform="translate(0 4)"><mask id="svgicon_whatsapp_c" fill="#fff"><use xlink:href="#svgicon_whatsapp_a"></use></mask><use fill="url(#svgicon_whatsapp_b)" xlink:href="#svgicon_whatsapp_a"></use><path pid="4" d="M10.843 17.431L5.28 20.16H3.52l1.4-5.483c-1.978-1.545-3.16-3.505-3.16-5.637C1.76 4.047 8.243 0 16.24 0c7.997 0 14.48 4.047 14.48 9.04 0 4.993-6.483 9.04-14.48 9.04-1.908 0-3.73-.23-5.397-.649z" fill="#414141" mask="url(#svgicon_whatsapp_c)"></path><circle pid="5" fill="#FFF" opacity=".2" mask="url(#svgicon_whatsapp_c)" cx="9.6" cy="8.48" r="1.6"></circle><circle pid="6" fill="#FFF" opacity=".2" mask="url(#svgicon_whatsapp_c)" cx="14.72" cy="8.48" r="1.6"></circle><circle pid="7" fill="#FFF" opacity=".2" mask="url(#svgicon_whatsapp_c)" cx="19.84" cy="8.48" r="1.6"></circle></g><g transform="matrix(-1 0 0 1 40 16)"><mask id="svgicon_whatsapp_g" fill="#fff"><use xlink:href="#svgicon_whatsapp_d"></use></mask><use fill="url(#svgicon_whatsapp_e)" xlink:href="#svgicon_whatsapp_d"></use><path pid="8" d="M7.808 17.112L1.6 20.16H-.16l1.759-6.03C-.21 12.622-1.28 10.75-1.28 8.72c0-4.993 6.483-9.04 14.48-9.04 7.997 0 14.48 4.047 14.48 9.04 0 4.993-6.483 9.04-14.48 9.04-1.906 0-3.725-.23-5.392-.648z" fill="url(#svgicon_whatsapp_f)" mask="url(#svgicon_whatsapp_g)"></path><circle pid="9" fill="#CF3B00" opacity=".413" mask="url(#svgicon_whatsapp_g)" cx="8.64" cy="8.48" r="1.6"></circle><circle pid="10" fill="#CF3B00" opacity=".413" mask="url(#svgicon_whatsapp_g)" cx="13.76" cy="8.48" r="1.6"></circle><circle pid="11" fill="#CF3B00" opacity=".413" mask="url(#svgicon_whatsapp_g)" cx="18.88" cy="8.48" r="1.6"></circle></g></g></svg>
                                 <div class="footer-text__content">

diff --git a/access/js/app.js b/access/js/app.js
@@ -120,13 +120,76 @@ $('.tutorial .owl-carousel').owlCarousel({
 
 });
 
-let search = document.getElementsByClassName('header__search-client')[0];
+let search = document.getElementById('header__hasextend')
 let extend = document.getElementById("extend-client");
 search.onclick = function () {
-    extend.style.display = 'block';
+    if(extend.style.display == 'none') {
+        extend.style.display = 'block';
+    } else {
+        extend.style.display = 'none';
+    }
 }
-window.onclick = function (event) {
-    if (event.target != search) {
-        extend.style.display = "none"
+let isLanguage = document.getElementById('language');
+let isOption = document.getElementsByClassName('header__navbar-language')[0];
+isLanguage.onclick = function () {
+    if(isOption.style.display == 'none') {
+        isOption.style.display = 'flex';
+    } else {
+        isOption.style.display = 'none';
+    }
+}
+
+let plusAdult = document.getElementById('plusAdult');
+let minusAdult = document.getElementById('minusAdult');
+let plusChild = document.getElementById('plusChild');
+let minusChild = document.getElementById('minusChild');
+let plusInfant = document.getElementById('plusInfant');
+let minusInfant = document.getElementById('minusInfant');
+let inputAdult = document.getElementById('inputAdult').value;
+let inputChild = document.getElementById('inputChild').value;
+let inputInfant = document.getElementById('inputInfant').value;
+
+plusAdult.onclick = function (){
+    if(!isNaN(inputAdult)){
+        inputAdult++;
+        document.getElementById('inputAdult').value = inputAdult;
+        return false    
+    }
+}
+minusAdult.onclick = function (){
+    if(!isNaN(inputAdult) && inputAdult > 0){
+        inputAdult--;
+        document.getElementById('inputAdult').value = inputAdult;
+        return false    
+    }
+}
+
+plusInfant.onclick = function (){
+    if(!isNaN(inputInfant)){
+        inputInfant++;
+        document.getElementById('inputInfant').value = inputInfant;
+        return false    
+    }
+}
+minusInfant.onclick = function (){
+    if(!isNaN(inputInfant) && inputInfant > 0){
+        inputInfant--;
+        document.getElementById('inputInfant').value = inputInfant;
+        return false    
+    }
+}
+
+plusChild.onclick = function (){
+    if(!isNaN(inputChild)){
+        inputChild++;
+        document.getElementById('inputChild').value = inputChild;
+        return false    
+    }
+}
+minusChild.onclick = function (){
+    if(!isNaN(inputChild) && inputChild > 0){
+        inputChild--;
+        document.getElementById('inputChild').value = inputChild;
+        return false    
     }
 }

diff --git a/access/css/main.css b/access/css/main.css
@@ -121,7 +121,7 @@ body{
     text-decoration: none;
 }
 
-.header__logo-link:hover svg{
+.header__logo-link:hover .cls-1{
     fill: var(--hover-color);
 }
 
@@ -256,10 +256,24 @@ body{
     border: none;
     margin-bottom: -12px;
 }
+.client-extend__down,
+.client-extend__up,
+.client-extend__del,
+.client-extend__apply {
+    cursor: pointer;
+}
 
+.client-extend__down:hover,
+.client-extend__up:hover{
+    color: var(--hover-color);
+}
 
 .header__search-button{
     flex: 1;
+}
+
+.header__search-button button{
+    cursor: pointer;
 }
 
 .header__search-button button{
@@ -281,6 +295,9 @@ body{
     display: flex;
     list-style: none;
     align-items: center;
+}
+.header__navbar-link:nth-child(-n+3):hover {
+    color: var(--hover-color);
 }
 
 .header__navbar-link{
@@ -331,6 +348,59 @@ body{
     right: 11px;
 }
 
+.header__navbar-language{
+    width: 470px;
+    height: 150px;
+    position: absolute;
+    top: calc(100% - 8px);
+    right: 48px;
+    background-color: var(--white-color);
+    display: flex;
+    display: none;
+}
+
+.header__navbar-language::after{
+    content: "";
+    top: -9px;
+    right: 32px;
+    transform: rotate(45deg);
+    position: absolute;
+    height: 16px;
+    width: 16px;
+    background-color: var(--white-color);
+    border-left: 1px solid #e2e5e9;
+    border-top: 1px solid #e2e5e9;
+}
+
+.language, .currency {
+    width: 50%;
+    height: 100%;
+}
+
+.vietnamese, .english, .korean, .vnd, .usd {
+    display: flex;
+    justify-content: flex-start;
+    align-items: center;
+    height: 33.33333%;
+    cursor: pointer;
+}
+.vietnamese:hover , .english:hover, .korean:hover, .vnd:hover, .usd:hover {
+    color: var(--hover-color);
+}
+
+.vietnamese img, .english img, .korean img{
+    height: 16px;
+    width: 16px;
+    margin: 0 12px;
+}
+
+.vietnamese span, .english span, .korean span, .currency span{
+    font-size: 1.6rem;
+    margin-right: 12px;
+}
+.vnd-currency, .usd-currency {
+    font-weight: 500;
+}
 /* slider */
 .slide{
     padding: 42px 0;
@@ -386,7 +456,9 @@ body{
 .opening__content-link{
     color: var(--primary-color);
 }
-
+.opening__content-link:hover{
+    color: var(--hover-color);
+}
 .opening__item{
     text-decoration: none;
     color: var(--text-color);
